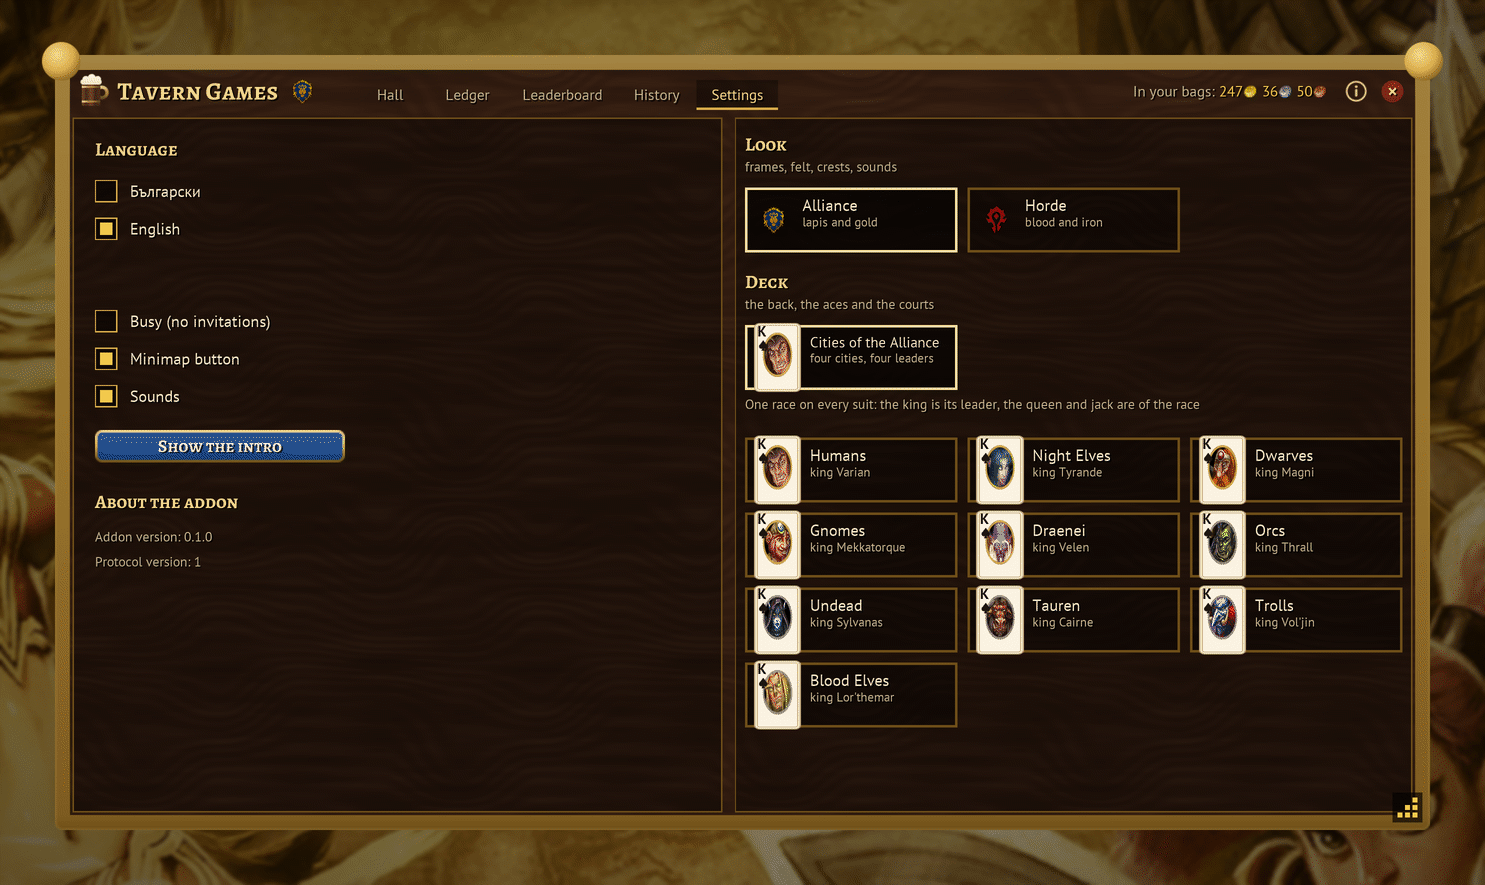
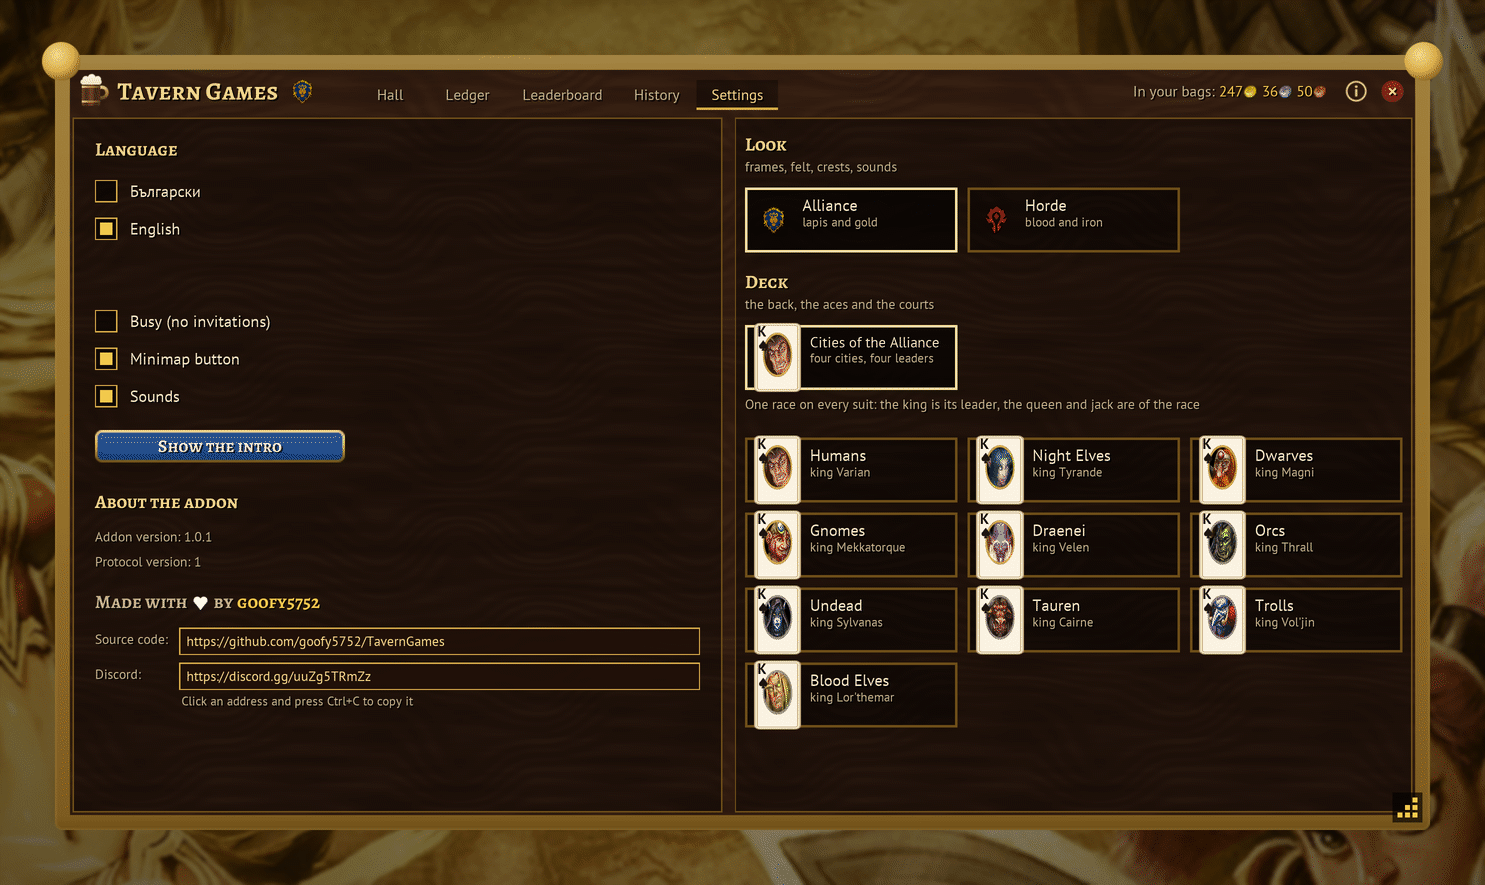
Discord and support links: Settings, README, Sponsor button (#16)
Settings shows the Discord server's address under the source code's, in a read-only box to copy from. README gets Discord and Buy Me a Coffee badges and a Community and support section; FUNDING.yml adds the Sponsor button; the issue chooser links to Discord. The donation link stays out of the addon (Blizzard's add-on policy).

diff --git a/README.md b/README.md
@@ -10,8 +10,10 @@
 [![Tests](https://github.com/goofy5752/TavernGames/actions/workflows/tests.yml/badge.svg)](https://github.com/goofy5752/TavernGames/actions/workflows/tests.yml)
 [![Languages](https://img.shields.io/badge/UI-English%20%7C%20Български-e9c98a)](#languages)
 [![License: MIT](https://img.shields.io/badge/license-MIT-blue)](LICENSE)
+[![Discord](https://img.shields.io/badge/Discord-join%20the%20tavern-5865F2?logo=discord&logoColor=white)](https://discord.gg/uuZg5TRmZz)
+[![Buy me a coffee](https://img.shields.io/badge/Buy%20me%20a%20coffee-support-FFDD00?logo=buymeacoffee&logoColor=black)](https://buymeacoffee.com/goofy5752)
 
-[Features](#features) · [Games](#games) · [Screenshots](#screenshots) · [How it works](#how-it-works) · [Installation](#installation) · [Commands](#slash-commands) · [FAQ](#faq) · [На български](#на-български)
+[Features](#features) · [Games](#games) · [Screenshots](#screenshots) · [How it works](#how-it-works) · [Installation](#installation) · [Commands](#slash-commands) · [FAQ](#faq) · [Community](#community-and-support) · [На български](#на-български)
 
 <img src="docs/screenshots/hall.png" alt="The tavern hall: seven tables of different games, some with bots playing, the guild sign, the debts owed to you and who is in the tavern now" width="900">
 
@@ -23,7 +25,7 @@
 
 Every table is either **just for fun** or **staked in gold and silver**. The addon never moves gold by itself. It keeps a **guild-wide debt ledger**, fills in the amount for a **trade** or a **mail**, and you press the button. The addon runs on GUILD and WHISPER addon messages only, so it needs no server, website or external service.
 
-> **Version 1.0.1** ([changelog](CHANGELOG.md)), the first public release with a few additions. All seven games, stakes, the ledger, the leaderboard and the history are built, tested in game on WoW Forever and covered by more than 2500 automated tests. Please [open an issue](../../issues) if something misbehaves.
+> **Version 1.0.1** ([changelog](CHANGELOG.md)), the first public release with a few additions. All seven games, stakes, the ledger, the leaderboard and the history are built, tested in game on WoW Forever and covered by more than 2500 automated tests. Please [open an issue](../../issues) or tell us on [Discord](https://discord.gg/uuZg5TRmZz) if something misbehaves.
 
 ## Table of contents
 
@@ -43,6 +45,7 @@ Every table is either **just for fun** or **staked in gold and silver**. The add
 - [Known limitations](#known-limitations)
 - [Development](#development)
 - [Project structure](#project-structure)
+- [Community and support](#community-and-support)
 - [Contributing](#contributing)
 - [License and credits](#license-and-credits)
 - [На български](#на-български)
@@ -275,6 +278,12 @@ TavernGames/
 └── docs/             # design spec, plans, notes, mockups
 ```
 
+## Community and support
+
+- **Discord:** join the [Tavern Games server](https://discord.gg/uuZg5TRmZz) to find players, ask for help, report bugs, suggest ideas and hear about new versions first.
+- **GitHub:** bugs and rule corrections are also welcome as [issues](../../issues).
+- **Support the project:** Tavern Games is free and always will be. If it made your guild nights more fun, you can [buy me a coffee](https://buymeacoffee.com/goofy5752). ☕
+
 ## Contributing
 
 Bug reports, rule corrections (especially for regional Belot and Santase variants) and translations are welcome. Please open an issue first for larger changes. Run `bash t.sh` before sending a pull request. See [CONTRIBUTING.md](CONTRIBUTING.md), and report security problems privately ([SECURITY.md](SECURITY.md)).
@@ -307,5 +316,7 @@ Bug reports, rule corrections (especially for regional Belot and Santase variant
 Как изглежда: виж [снимките](#screenshots) по-горе.
 
 **Инсталиране:** копирай папките `Libs`, `core`, `engines`, `locale`, `wow`, `ui`, `media` и файловете `TavernGames.toc` и `LICENSE-THIRD-PARTY.md` в `World of Warcraft\_forever_\Interface\AddOns\TavernGames\`. После напиши `/tavern` в играта.
+
+**Общност:** [Discord сървърът](https://discord.gg/uuZg5TRmZz) е мястото за търсене на съиграчи, въпроси, бъгове и идеи. Ако искаш да подкрепиш проекта, можеш да ми [купиш кафе](https://buymeacoffee.com/goofy5752). ☕
 
 <sub>Keywords: WoW addon, World of Warcraft addon, guild games, Belot addon, Santase addon, Backgammon addon, Tabla, Texas Hold'em poker addon, WoW poker, Chess addon, WoW chess, Death Roll addon, gold betting, guild bank, debt ledger, Lua addon, WoW Forever, аддон за WoW, Белот, Сантасе, Табла, покер, Шах.</sub>

diff --git a/CHANGELOG.md b/CHANGELOG.md
@@ -1,5 +1,9 @@
 # Changelog
 
+## Unreleased
+
+- **Settings:** the Discord server's address now sits under the source code's, in the same box you can copy from.
+
 ## 1.0.1 (2026-11-25)
 
 - **Sounds for every game.** Belot and Santase have the deal, my turn, a card played, a trick taken, the declarations, closing the stock and the nine swap. Backgammon has the dice, a checker moved, hit and borne off. Chess has a move, a capture, check, castling, promotion and the low-time tick. Tic-tac-toe marks its X, its O and the winning line, and Death Roll its rolls and the 1. A win, loss or draw jingle plays at the end of every game.
